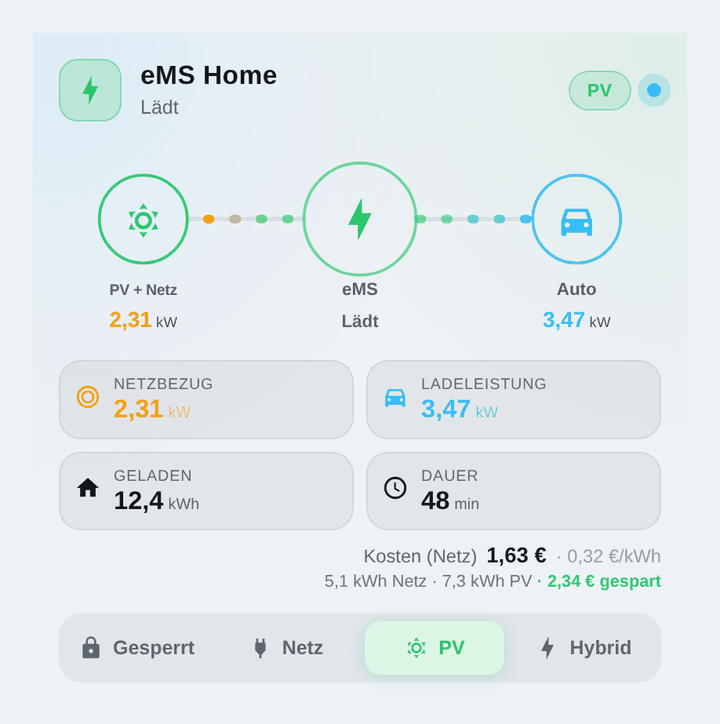
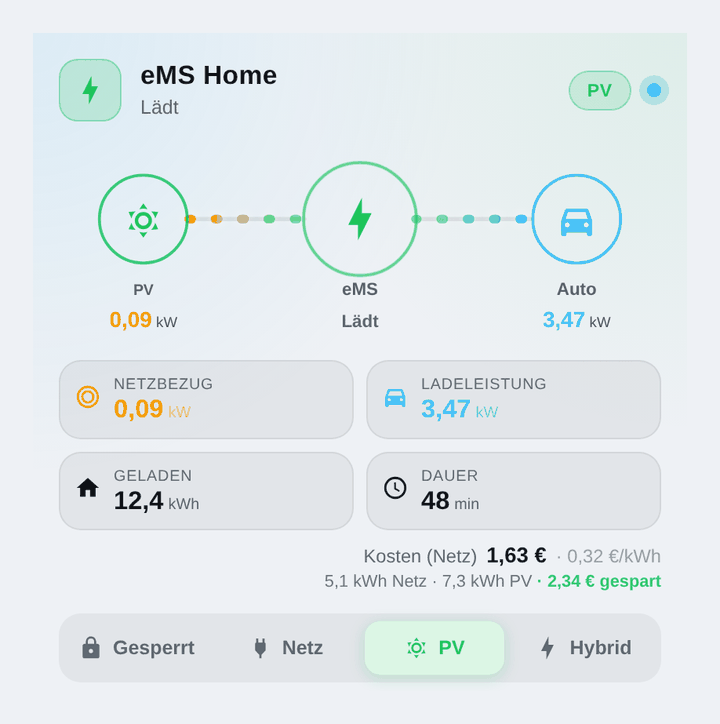
fix(card): label the flow source per mode
PV mode charges from surplus only, so 'PV + Grid' was wrong there – that is
hybrid. The source node now says 'Grid', 'PV' or 'PV + Grid', and the PV
screenshot uses a grid power that fits the mode instead of a 2,3 kW import.

diff --git a/preview/selftest.html b/preview/selftest.html
@@ -166,8 +166,17 @@ customElements.whenDefined("ems-home-card").then(() => {
   const pv = makeCard(makeHass({ over:{ "select.ems_home_charge_mode": S("pv"),
                                         "sensor.ems_home_charge_mode": S("pv") } }));
   const labels = [...pv.shadowRoot.querySelectorAll(".node .label")].map(n => n.textContent.trim());
-  check("pv source label is 'PV + Netz'", labels[0] === "PV + Netz", labels.join(" | "));
+  check("pv source label is 'PV' (no grid in pv mode)", labels[0] === "PV", labels.join(" | "));
   check("pv has no quota slider", !pv.shadowRoot.querySelector("#quota"));
+  const hybridLabels = [...makeCard(makeHass({ over:{
+    "select.ems_home_charge_mode": S("hybrid"), "sensor.ems_home_charge_mode": S("hybrid") } }))
+    .shadowRoot.querySelectorAll(".node .label")].map(n => n.textContent.trim());
+  check("hybrid source label is 'PV + Netz'", hybridLabels[0] === "PV + Netz", hybridLabels.join(" | "));
+  const gridLabels = [...makeCard(makeHass({ over:{
+    "select.ems_home_charge_mode": S("grid"), "sensor.ems_home_charge_mode": S("grid") } }))
+    .shadowRoot.querySelectorAll(".node .label")].map(n => n.textContent.trim());
+  check("grid source label is 'Netz'", gridLabels[0] === "Netz", gridLabels.join(" | "));
+
   check("hybrid has the quota slider", !!makeCard(makeHass({ over:{
     "select.ems_home_charge_mode": S("hybrid"), "sensor.ems_home_charge_mode": S("hybrid") } }))
     .shadowRoot.querySelector("#quota"));

diff --git a/custom_components/ems_home/frontend/ems-home-card.js b/custom_components/ems_home/frontend/ems-home-card.js
@@ -469,10 +469,12 @@ class EmsHomeCard extends HTMLElement {
   }
 
   _flowTemplate({ mode, modeColour }) {
-    // PV and hybrid draw from the roof *and* the grid, so say so and use a sun.
-    const solar = mode === "pv" || mode === "hybrid";
+    // Grid: the meter is the source. PV: only surplus, so the roof alone.
+    // Hybrid: both – that is the only mode where the grid joins in.
+    const hybrid = mode === "hybrid";
+    const solar = hybrid || mode === "pv";
     const sourceColour = solar ? "#22c55e" : IMPORT_COLOUR;
-    const sourceLabel = solar ? this._t("pv_grid") : this._t("grid");
+    const sourceLabel = hybrid ? this._t("pv_grid") : mode === "pv" ? this._t("pv") : this._t("grid");
     const sourceIcon = solar ? ICONS.sun : ICONS.plug;
 
     return `

diff --git a/preview/shot.html b/preview/shot.html
@@ -51,7 +51,8 @@ const finished = stateParam === "finished";
 const idle = stateParam === "idle";
 const ago = new Date(Date.now() - 12*60000).toISOString();
 const states = {
-  "sensor.ems_home_grid_power": S(finished ? "0.320" : "2.310"),
+  // grid power that fits the mode: PV mode charges mostly from surplus
+  "sensor.ems_home_grid_power": S(finished ? "0.180" : mode === "pv" ? "0.090" : "2.310"),
   "sensor.ems_home_ev_charging_power": S(finished || idle ? "0" : "3.466"),
   "sensor.ems_home_ev_charging_state": S(finished || idle ? "idle" : "charging", {}, finished ? ago : undefined),
   "sensor.ems_home_wallbox_status": S(finished ? "finishing" : idle ? "available" : "charging"),
